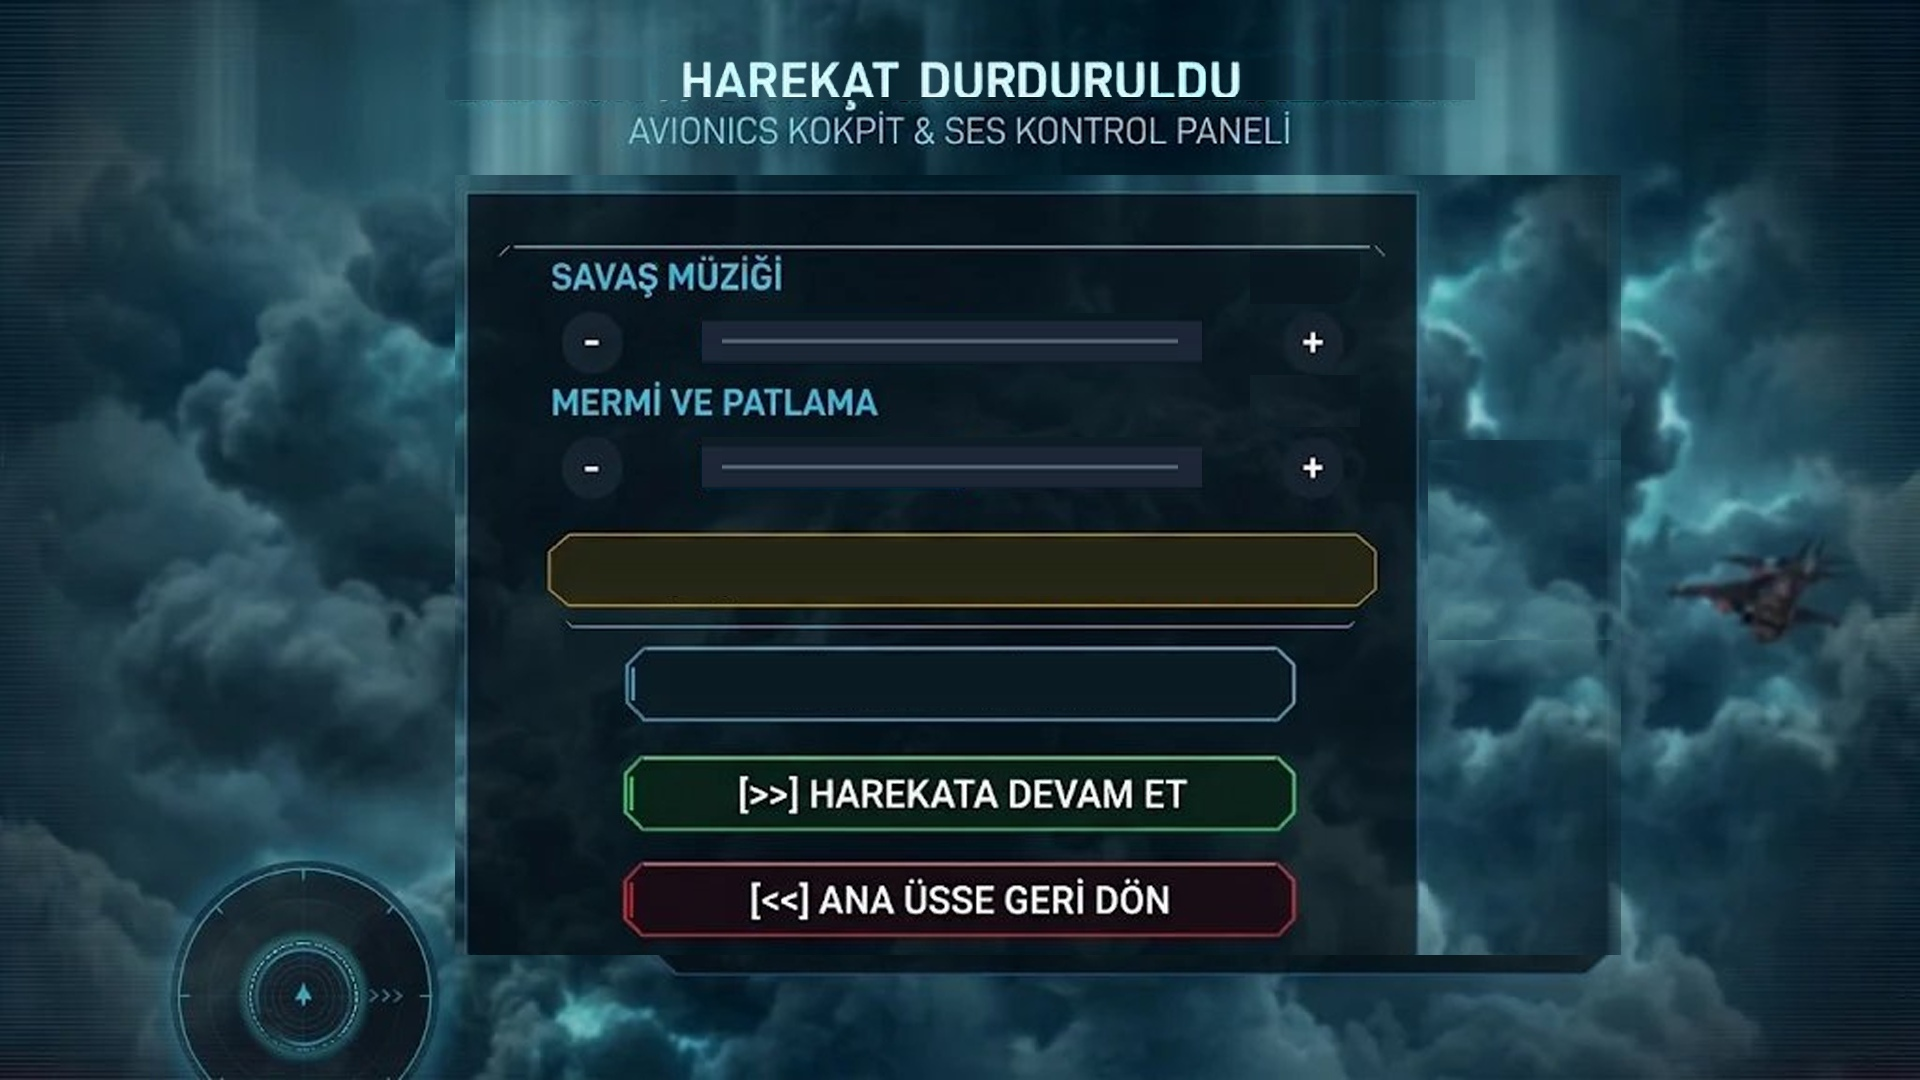
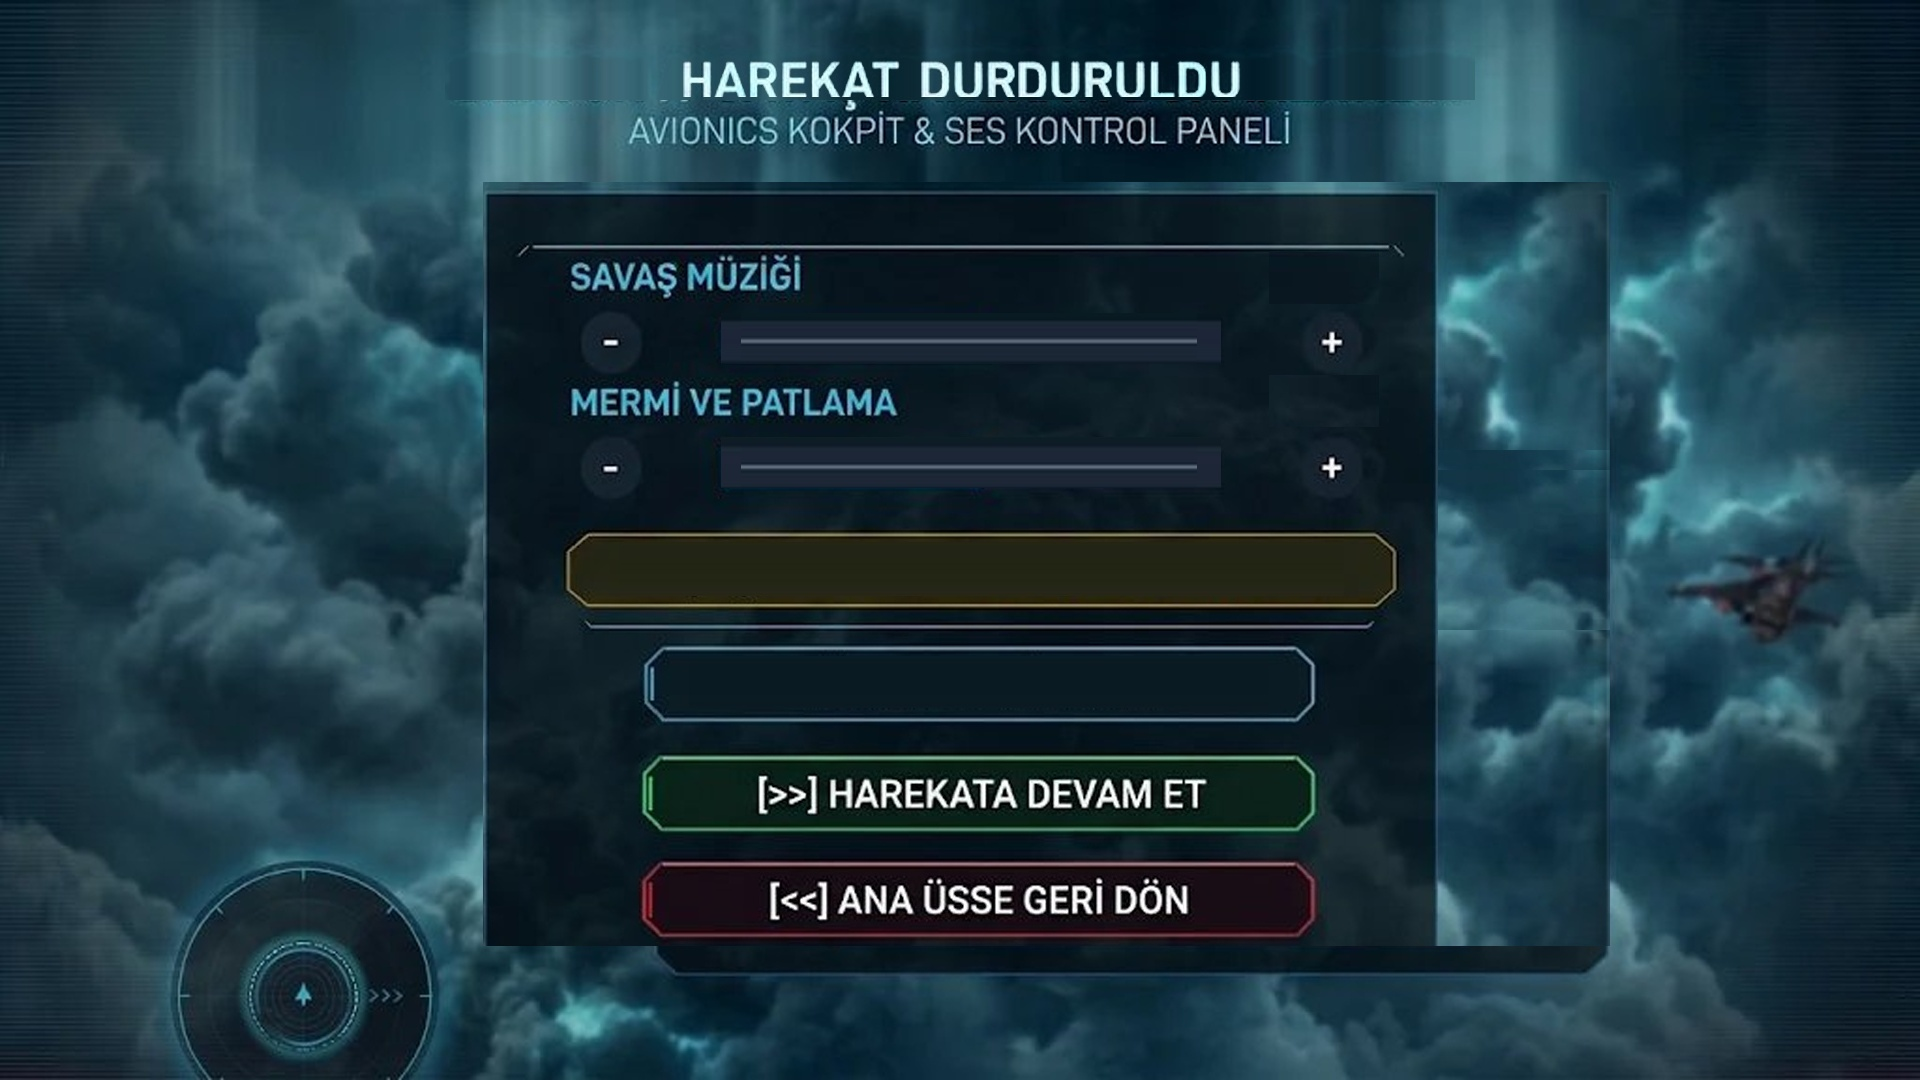
fix(ui): equalize pause panel frame borders symmetrically and remove right-side excess

diff --git a/My project/Assets/Scripts/UI/AudioSettingsUI.cs b/My project/Assets/Scripts/UI/AudioSettingsUI.cs
@@ -282,14 +282,14 @@ public class AudioSettingsUI : MonoBehaviour
         // 2. Mermi / Efekt Sesi Satırı: [-]  Slider  [+]
         _sfxSlider = CreateVolumeRow("MERMI VE PATLAMA", 76.5f, 140.0f, isMusic: false, out _sfxValTMP);
 
-        // 3. Uçuş Kontrol Tipi Butonu (Tam ortalanmış: centerX = 2.0f, y = -28.0f)
+        // 3. Uçuş Kontrol Tipi Butonu (Eşit çerçeveye tam hizalı: centerX = 20.5f, y = -28.0f)
         GameObject ctrlBtnObj = new GameObject("ControlSchemeButton", typeof(RectTransform));
         ctrlBtnObj.transform.SetParent(settingsPanelObj.transform, false);
         RectTransform ctrlRt = ctrlBtnObj.GetComponent<RectTransform>();
         ctrlRt.anchorMin = new Vector2(0.5f, 0.5f);
         ctrlRt.anchorMax = new Vector2(0.5f, 0.5f);
         ctrlRt.pivot = new Vector2(0.5f, 0.5f);
-        ctrlRt.anchoredPosition = new Vector2(2.0f, -28.0f);
+        ctrlRt.anchoredPosition = new Vector2(20.5f, -28.0f);
         ctrlRt.sizeDelta = new Vector2(825f, 70f);
 
         _controlBtnBg = ctrlBtnObj.AddComponent<Image>();
@@ -324,14 +324,14 @@ public class AudioSettingsUI : MonoBehaviour
         _controlBtnTMP.extraPadding = true;
         _controlBtnTMP.raycastTarget = false;
 
-        // 4. Mute Butonu (Tam ortalanmış: centerX = 0f, y = -142.0f)
+        // 4. Mute Butonu (Eşit çerçeveye tam hizalı: centerX = 18.5f, y = -142.0f)
         GameObject muteBtnObj = new GameObject("MuteButton", typeof(RectTransform));
         muteBtnObj.transform.SetParent(settingsPanelObj.transform, false);
         RectTransform muteRt = muteBtnObj.GetComponent<RectTransform>();
         muteRt.anchorMin = new Vector2(0.5f, 0.5f);
         muteRt.anchorMax = new Vector2(0.5f, 0.5f);
         muteRt.pivot = new Vector2(0.5f, 0.5f);
-        muteRt.anchoredPosition = new Vector2(0f, -142.0f);
+        muteRt.anchoredPosition = new Vector2(18.5f, -142.0f);
         muteRt.sizeDelta = new Vector2(671f, 72f);
 
         Image muteBg = muteBtnObj.AddComponent<Image>();
@@ -364,23 +364,23 @@ public class AudioSettingsUI : MonoBehaviour
         _muteBtnTMP.extraPadding = true;
         _muteBtnTMP.raycastTarget = false;
 
-        // 5. DEVAM ET BUTONU (Tam ortalanmış: centerX = 0f, y = -252.0f)
+        // 5. DEVAM ET BUTONU (Eşit çerçeveye tam hizalı: centerX = 18.5f, y = -252.0f)
         GameObject resumeBtnObj = new GameObject("ResumeButton", typeof(RectTransform));
         resumeBtnObj.transform.SetParent(settingsPanelObj.transform, false);
         Image resumeBg = resumeBtnObj.AddComponent<Image>();
         Button resumeBtn = resumeBtnObj.AddComponent<Button>();
         resumeBtn.targetGraphic = resumeBg;
         resumeBtn.onClick.AddListener(ResumeGame);
-        FormatPausePixelExactButton(resumeBtnObj, new Vector2(0f, -252.0f), new Vector2(671f, 72f));
+        FormatPausePixelExactButton(resumeBtnObj, new Vector2(18.5f, -252.0f), new Vector2(671f, 72f));
 
-        // 6. ANA SAYFAYA DÖN BUTONU (Tam ortalanmış: centerX = 0f, y = -360.0f)
+        // 6. ANA SAYFAYA DÖN BUTONU (Eşit çerçeveye tam hizalı: centerX = 18.5f, y = -360.0f)
         GameObject homeBtnObj = new GameObject("HomeButton", typeof(RectTransform));
         homeBtnObj.transform.SetParent(settingsPanelObj.transform, false);
         Image homeBg = homeBtnObj.AddComponent<Image>();
         Button homeBtn = homeBtnObj.AddComponent<Button>();
         homeBtn.targetGraphic = homeBg;
         homeBtn.onClick.AddListener(ReturnToHome);
-        FormatPausePixelExactButton(homeBtnObj, new Vector2(0f, -360.0f), new Vector2(671f, 72f));
+        FormatPausePixelExactButton(homeBtnObj, new Vector2(18.5f, -360.0f), new Vector2(671f, 72f));
 
         settingsPanelObj.SetActive(false);
     }
@@ -417,14 +417,14 @@ public class AudioSettingsUI : MonoBehaviour
 
     private Slider CreateVolumeRow(string label, float barCenterY1080, float valCenterY1080, bool isMusic, out TextMeshProUGUI valueTMP)
     {
-        // Yüzde Metni (%53 / %51) - Tam ortalanmış: centerX = 340.5f
+        // Yüzde Metni (%53 / %51) - Eşit çerçeveye tam hizalı: centerX = 359.0f
         GameObject valObj = new GameObject(label + "_ValText", typeof(RectTransform));
         valObj.transform.SetParent(settingsPanelObj.transform, false);
         RectTransform valRt = valObj.GetComponent<RectTransform>();
         valRt.anchorMin = new Vector2(0.5f, 0.5f);
         valRt.anchorMax = new Vector2(0.5f, 0.5f);
         valRt.pivot = new Vector2(0.5f, 0.5f);
-        valRt.anchoredPosition = new Vector2(340.5f, valCenterY1080);
+        valRt.anchoredPosition = new Vector2(359.0f, valCenterY1080);
         valRt.sizeDelta = new Vector2(120f, 50f);
 
         valueTMP = valObj.AddComponent<TextMeshProUGUI>();
@@ -435,30 +435,30 @@ public class AudioSettingsUI : MonoBehaviour
         valueTMP.color = Color.white;
         valueTMP.alignment = TextAlignmentOptions.Center;
 
-        // [-] Butonu (Tam ortalanmış: centerX = -365.5f)
+        // [-] Butonu (Eşit çerçeveye tam hizalı: centerX = -347.0f)
         GameObject minusBtnObj = new GameObject(label + "_MinusBtn", typeof(RectTransform));
         minusBtnObj.transform.SetParent(settingsPanelObj.transform, false);
         Image minusBg = minusBtnObj.AddComponent<Image>();
         Button minusBtn = minusBtnObj.AddComponent<Button>();
         minusBtn.targetGraphic = minusBg;
-        FormatPausePixelExactButton(minusBtnObj, new Vector2(-365.5f, barCenterY1080), new Vector2(64f, 60f));
+        FormatPausePixelExactButton(minusBtnObj, new Vector2(-347.0f, barCenterY1080), new Vector2(64f, 60f));
 
-        // [+] Butonu (Tam ortalanmış: centerX = +353.5f)
+        // [+] Butonu (Eşit çerçeveye tam hizalı: centerX = +372.0f)
         GameObject plusBtnObj = new GameObject(label + "_PlusBtn", typeof(RectTransform));
         plusBtnObj.transform.SetParent(settingsPanelObj.transform, false);
         Image plusBg = plusBtnObj.AddComponent<Image>();
         Button plusBtn = plusBtnObj.AddComponent<Button>();
         plusBtn.targetGraphic = plusBg;
-        FormatPausePixelExactButton(plusBtnObj, new Vector2(353.5f, barCenterY1080), new Vector2(64f, 60f));
+        FormatPausePixelExactButton(plusBtnObj, new Vector2(372.0f, barCenterY1080), new Vector2(64f, 60f));
 
-        // Ortadaki Kaydırıcı (Slider: Tam ortalanmış: centerX = -7.0f)
+        // Ortadaki Kaydırıcı (Slider: Eşit çerçeveye tam hizalı: centerX = 12.0f)
         GameObject sliderObj = new GameObject(label + "_Slider", typeof(RectTransform));
         sliderObj.transform.SetParent(settingsPanelObj.transform, false);
         RectTransform sRt = sliderObj.GetComponent<RectTransform>();
         sRt.anchorMin = new Vector2(0.5f, 0.5f);
         sRt.anchorMax = new Vector2(0.5f, 0.5f);
         sRt.pivot = new Vector2(0.5f, 0.5f);
-        sRt.anchoredPosition = new Vector2(-7.0f, barCenterY1080);
+        sRt.anchoredPosition = new Vector2(12.0f, barCenterY1080);
         sRt.sizeDelta = new Vector2(498f, 41f);
 
         Slider slider = sliderObj.AddComponent<Slider>();
